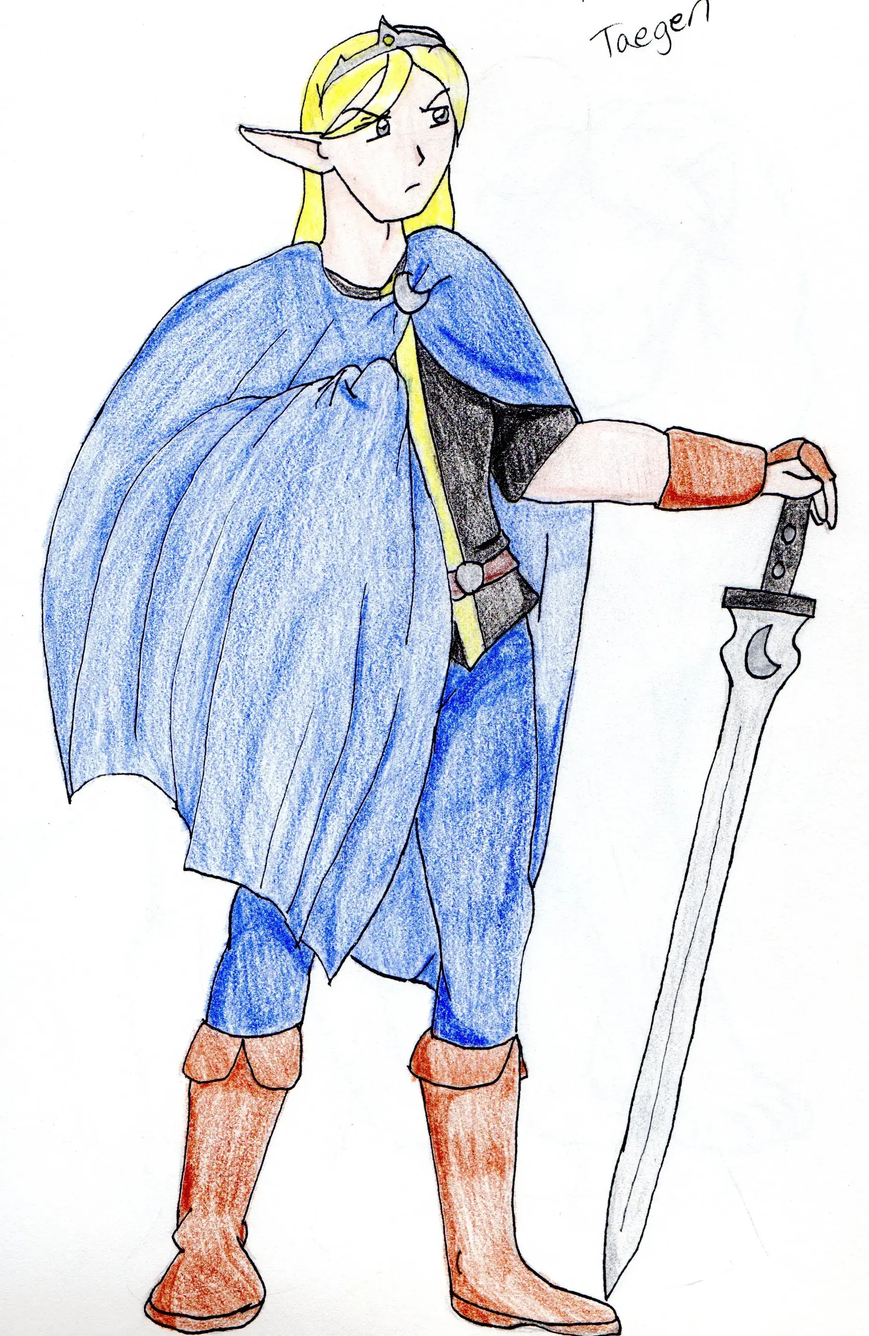
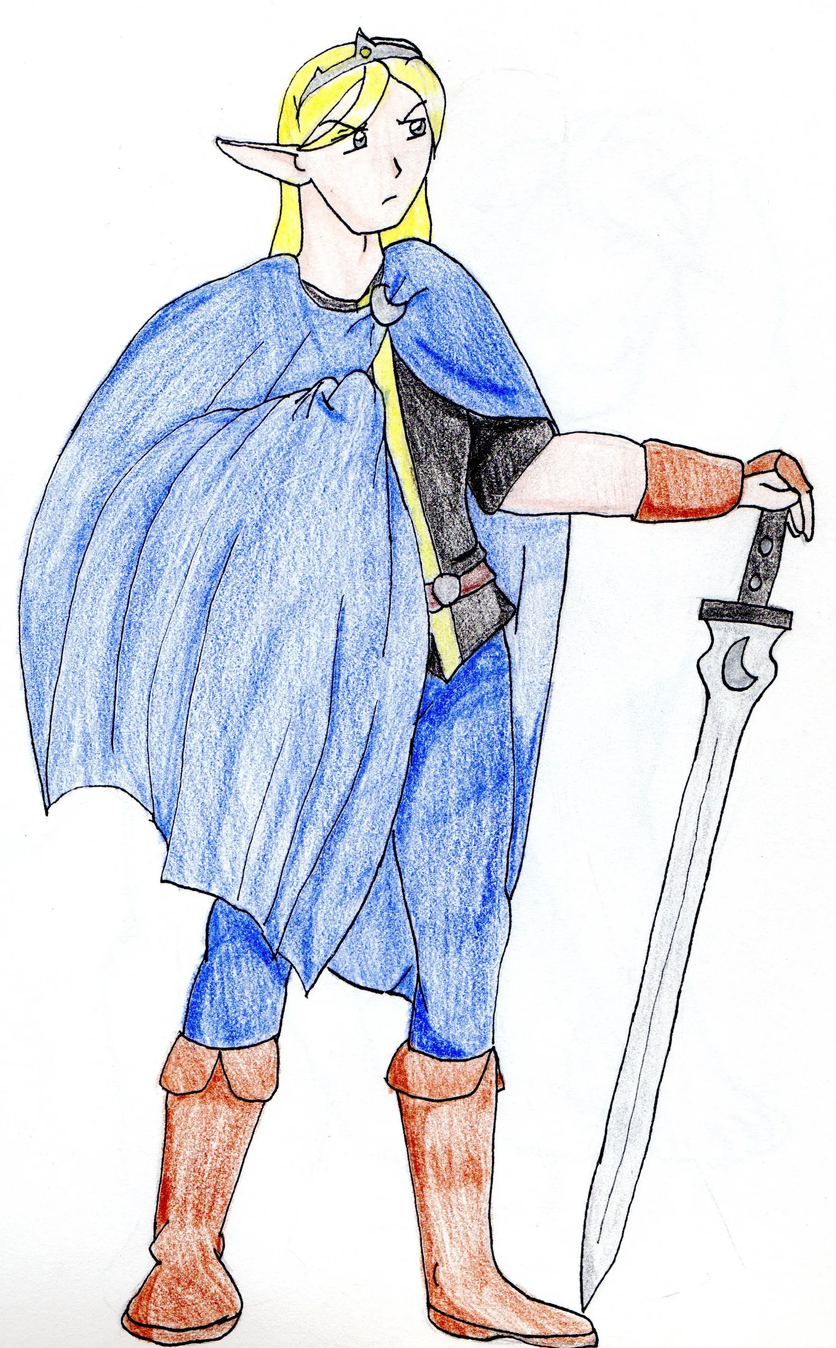
Published multiple files

diff --git a/src/site/notes/Gallery.md b/src/site/notes/Gallery.md
@@ -1,4 +1,23 @@
 ---
-{"dg-publish":true,"permalink":"/gallery/"}
+{"dg-publish":true,"permalink":"/gallery/","pinned":true}
 ---
 
+## Seleneas
+
+<div class="transclusion internal-embed is-loaded"><a class="markdown-embed-link" href="/characters/seleneas/taegen-estellia/#gallery" aria-label="Open link"><svg xmlns="http://www.w3.org/2000/svg" width="24" height="24" viewBox="0 0 24 24" fill="none" stroke="currentColor" stroke-width="2" stroke-linecap="round" stroke-linejoin="round" class="svg-icon lucide-link"><path d="M10 13a5 5 0 0 0 7.54.54l3-3a5 5 0 0 0-7.07-7.07l-1.72 1.71"></path><path d="M14 11a5 5 0 0 0-7.54-.54l-3 3a5 5 0 0 0 7.07 7.07l1.71-1.71"></path></svg></a><div class="markdown-embed">
+
+
+
+## Gallery
+
+|                                                |     |     |     |
+| ---------------------------------------------- | --- | --- | --- |
+| [[Gallery/Taegenfullbody\|![full_taegen.webp](/img/user/z_Assets/full_taegen.webp)]] |     |     |     |
+
+
+
+
+</div></div>
+
+
+## Other characters

diff --git a/src/site/notes/Characters/Other Minor Characters.md b/src/site/notes/Characters/Other Minor Characters.md
@@ -19,3 +19,7 @@ Quite mysterious.
 
 **Duralle**
 A desk clerk working at an inn in [[Locations/Cepriso\|Odonphis]]. She's proud of the cinnamon rolls she bakes for the inn's customers.
+
+|                                                |     |     |     |
+| ---------------------------------------------- | --- | --- | --- |
+| [[Gallery/Ryufullbody\|![full_ryunosuke.webp](/img/user/z_Assets/full_ryunosuke.webp)]] |  [[Gallery/Temuldrakfullbody\|![full_temuldrak.webp](/img/user/z_Assets/full_temuldrak.webp)]]   |     |     |

diff --git a/src/site/notes/Characters/Seleneas/Taegen Estellia.md b/src/site/notes/Characters/Seleneas/Taegen Estellia.md
@@ -34,6 +34,6 @@
 
 |                                                |     |     |     |
 | ---------------------------------------------- | --- | --- | --- |
-| [[Gallery/Taegenfullbody\|![full_taegen.webp](/img/user/z_Assets/full_taegen.webp)]] |   pepper poop  | fart goop    | monkey soup    |
+| [[Gallery/Taegenfullbody\|![full_taegen.webp](/img/user/z_Assets/full_taegen.webp)]] |     |     |     |
 
 

diff --git a/src/site/notes/Gallery/Temuldrakfullbody.md b/src/site/notes/Gallery/Temuldrakfullbody.md
@@ -1,0 +1,6 @@
+---
+{"dg-publish":true,"permalink":"/gallery/temuldrakfullbody/","hide":true}
+---
+
+![full_ryunosuke.webp](/img/user/z_Assets/full_ryunosuke.webp)
+Full body art of [[Characters/Other Minor Characters\|Temuldrak the Grimbo]], by Alex.

diff --git a/src/site/notes/Gallery/Ryufullbody.md b/src/site/notes/Gallery/Ryufullbody.md
@@ -1,0 +1,6 @@
+---
+{"dg-publish":true,"permalink":"/gallery/ryufullbody/","hide":true}
+---
+
+![full_ryunosuke.webp](/img/user/z_Assets/full_ryunosuke.webp)
+Full body art of [[Characters/Other Minor Characters\|Ryunosuke Swordguy]], by Alex.
